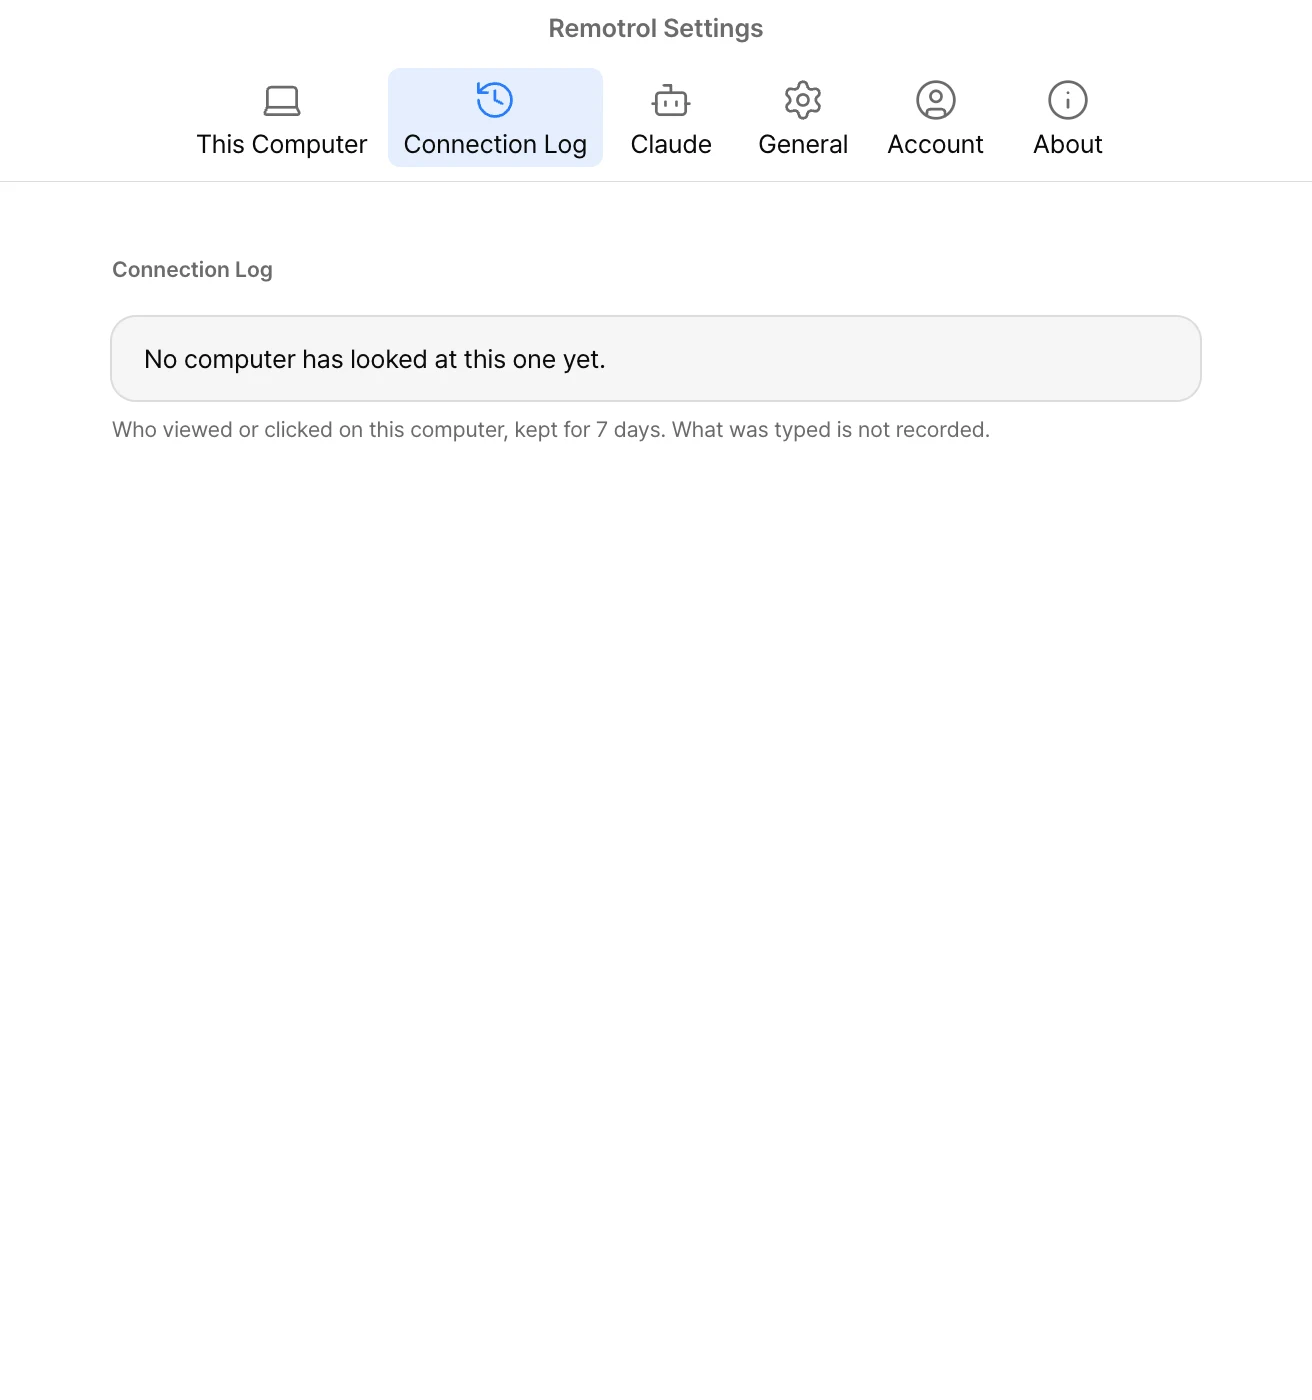
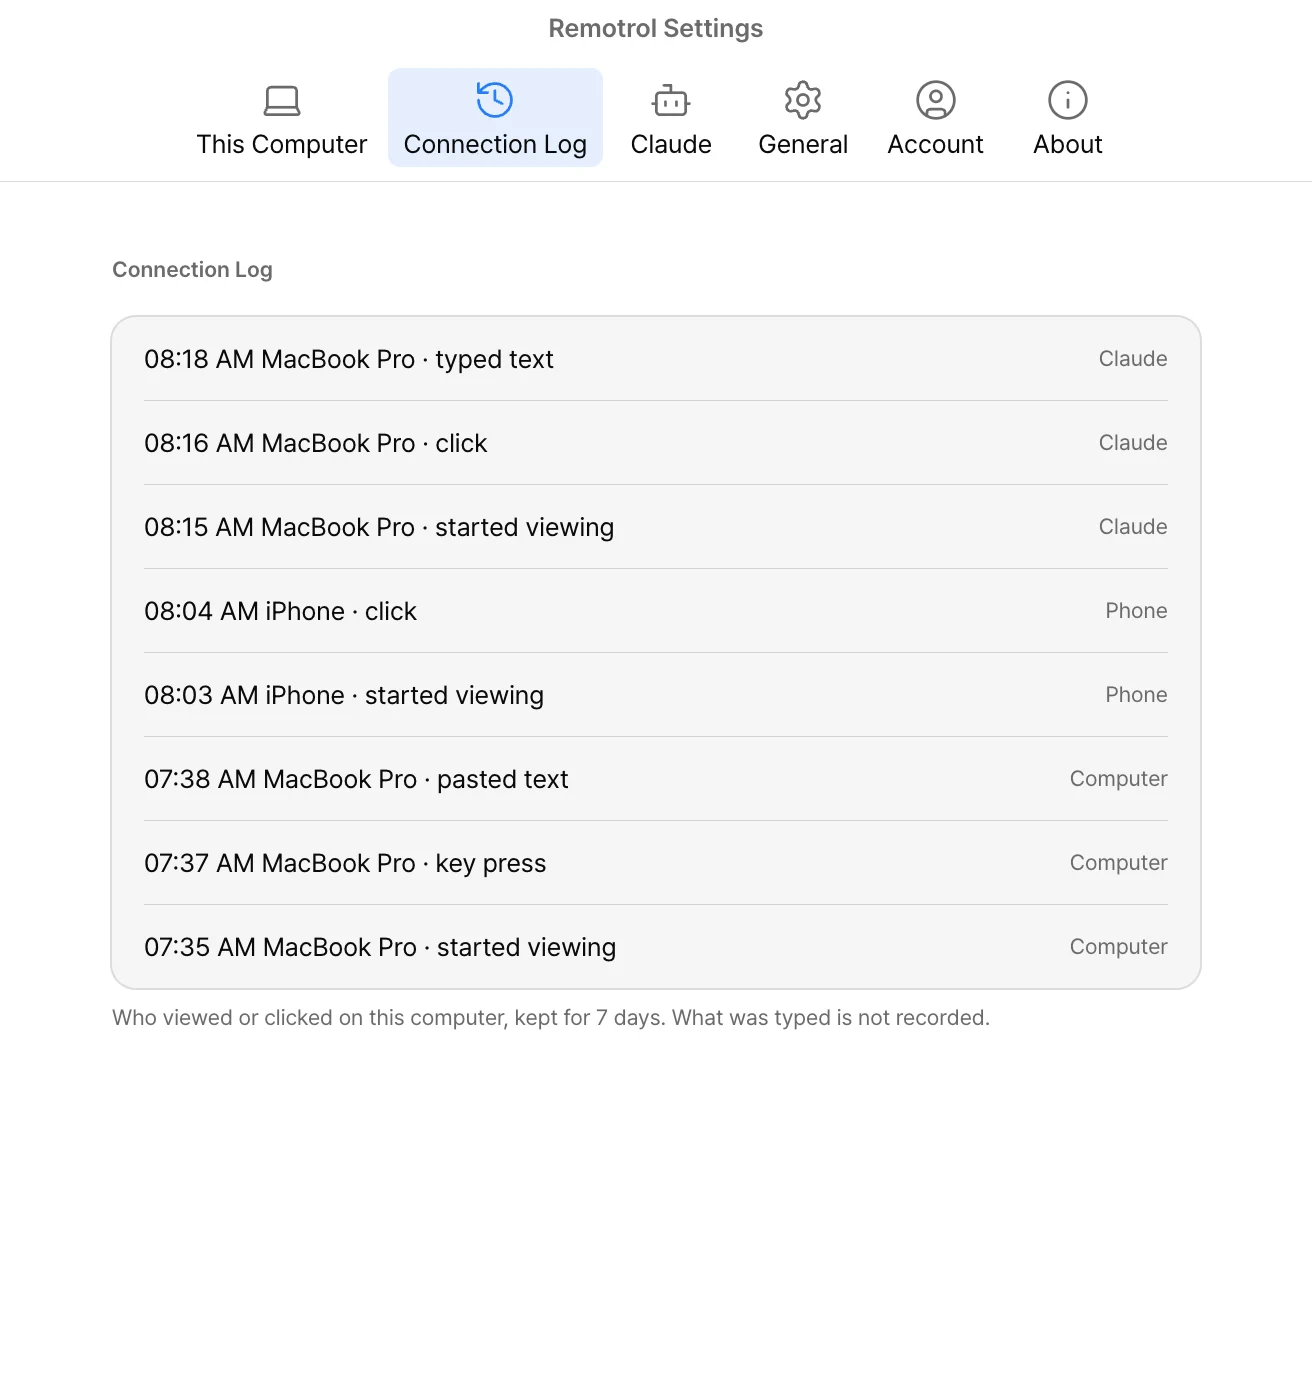
README 그림을 로그인한 화면으로 바꿈: 맨 위는 다른 컴퓨터 화면 보기(모니터 메뉴), 메뉴 막대 창은 보이는 중, 접속 기록 · Claude 칸은 기록이 채워진 화면. 꾸민 컴퓨터 이름만 나오고 실제 이름은 빠짐

diff --git a/README.ko.md b/README.ko.md
@@ -11,8 +11,8 @@
 <p align="center"><sub>무료 · macOS 14 이상 · Apple silicon · Intel · iPhone 앱 준비 중 · 20개 언어</sub></p>
 
 <picture>
-  <source media="(prefers-color-scheme: dark)" srcset="docs/images/all-computers-ko-dark.webp">
-  <img src="docs/images/all-computers-ko-light.webp" alt="로그인하기 전 Remotrol 창">
+  <source media="(prefers-color-scheme: dark)" srcset="docs/images/view-ko-dark.webp">
+  <img src="docs/images/view-ko-light.webp" alt="Remotrol 에서 다른 컴퓨터 화면을 보는 중, 모니터 메뉴를 연 모습">
 </picture>
 
 ## 하는 일

diff --git a/README.md b/README.md
@@ -11,8 +11,8 @@
 <p align="center"><sub>Free · macOS 14 or later · Apple silicon · Intel · iPhone app coming · 20 languages</sub></p>
 
 <picture>
-  <source media="(prefers-color-scheme: dark)" srcset="docs/images/all-computers-en-dark.webp">
-  <img src="docs/images/all-computers-en-light.webp" alt="The Remotrol window before signing in">
+  <source media="(prefers-color-scheme: dark)" srcset="docs/images/view-en-dark.webp">
+  <img src="docs/images/view-en-light.webp" alt="Watching another computer's screen in Remotrol, with the displays menu open">
 </picture>
 
 ## What it does
